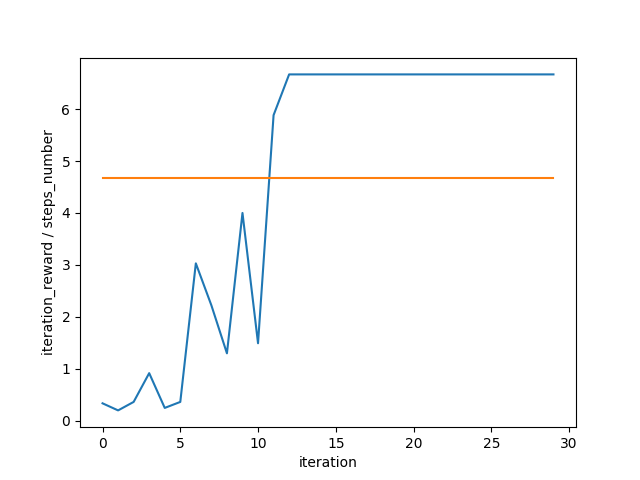
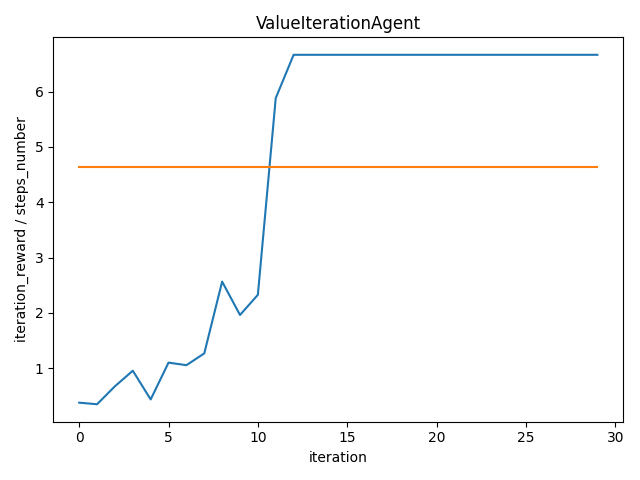
fix: plot saves and print_statistics

diff --git a/src/valueIteration_agent.py b/src/valueIteration_agent.py
@@ -2,6 +2,7 @@ from src.cell import Cell
 from src.map import Map
 from src.robot import Robot
 from src.direction import Directions
+from src.color_printer import ColorPrinter
 from matplotlib import pyplot as plt
 
 import  random
@@ -17,7 +18,7 @@ class ValueIterationAgent:
         self.max_iteration = 30
         self.max_steps_number = 20_000
         self.steps_number = 0
-        self.iteration_number = 0
+        self.iteration_number = 1
         self.episode_reward = 0 
         self.rewards = []
         self.space = range(self.max_iteration)
@@ -68,7 +69,7 @@ class ValueIterationAgent:
         self.run_value_iterations()
     
         self.rewards.append(self.episode_reward / self.steps_number)
-        print(f" iteration {self.iteration_number} episode_reward / steps_number: {self.episode_reward / self.steps_number}")
+        print(f"iteration {self.iteration_number} episode_reward / steps_number: {ColorPrinter.colored(self.episode_reward / self.steps_number)}")
         self.iteration_number += 1
         self.steps_number = 0
         self.episode_reward = 0
@@ -80,31 +81,40 @@ class ValueIterationAgent:
         self.steps_number += 1
         self.episode_reward += reward
 
-        if win or self.steps_number > self.max_steps_number:
-            self.reset_episode()
-        
-        last_iteration = self.iteration_number >= self.max_iteration
+        last_iteration = self.iteration_number > self.max_iteration
         if last_iteration:
             self.calculate_statistics()
-            # self.save_plot()
-            self.save_plot2()
+            self.print_statistics()
+            self.save_plots()
+        
+        if win or self.steps_number > self.max_steps_number:
+            self.reset_episode()
         return last_iteration
 
-    def print_statistics(self) -> None:
-        pass
-
-    def save_plot(self) -> None:
-        figure = plt.figure()
-        ax = figure.add_subplot(111)
-        cax = ax.matshow(self.values, interpolation='nearest', cmap='hot')
-        figure.colorbar(cax)
+    def save_plots(self) -> None:
+        plt.figure(1)
+        plt.title("Values heat map")
+        heat_map = plt.subplot(111)
+        cax = heat_map.matshow(self.values, interpolation='nearest', cmap='hot')
+        plt.colorbar(cax)
         plt.savefig("figure2.png")
+
+        plt.figure(2)
+        plt.title("ValueIterationAgent")
+        plt.xlabel("iteration")
+        plt.ylabel("iteration_reward / steps_number")       
+        plt.plot(self.space, self.rewards)
+        plt.plot(self.space,[self.average for _ in self.space]) 
+        plt.tight_layout()  
+        plt.savefig("figure3.png")
+        
     
     def save_plot2(self) -> None:
         plt.xlabel("iteration")
         plt.ylabel("iteration_reward / steps_number")       
         plt.plot(self.space, self.rewards)
-        plt.plot(self.space,[self.average for _ in self.space])   
+        plt.plot(self.space,[self.average for _ in self.space]) 
+        plt.tight_layout()  
         plt.savefig("figure3.png")
 
     def calculate_statistics(self) -> None:
@@ -112,6 +122,13 @@ class ValueIterationAgent:
         self.average = np.average(self.rewards)
         self.standard_deviation = np.std(self.rewards)
 
+    def print_statistics(self) -> None:
+        ColorPrinter.show(f"{'='*10}ValueIterationAgent:{'='*10}","warning")
+        print(f"max steps number: {ColorPrinter.colored(self.max_steps_number)}")
+        print(f"max iteration: {ColorPrinter.colored(self.max_iteration)}")
+        print(f"average reward / steps_number: {ColorPrinter.colored(round(self.average, 2))}")
+        print(f"standard_deviation reward / steps_number: {ColorPrinter.colored(round(self.standard_deviation,2))}")
+        print(f"time took {ColorPrinter.colored(round(self.time,2))} sec")
 
 
        

diff --git a/src/randomly_agent.py b/src/randomly_agent.py
@@ -1,5 +1,6 @@
 from src.map import Map
 from src.robot import Robot
+from src.color_printer import ColorPrinter
 from matplotlib import pyplot as plt
 
 import time
@@ -12,15 +13,21 @@ class RandomlyAgent:
         self.max_steps_number = 20_000
         self.max_episode_number = 30
         self.steps_number = 0
-        self.episode_number = 0
+        self.episode_number = 1
         self.episode_reward = 0 
         self.rewards = []
         self.space = range(self.max_episode_number)
         self.average = 0
         self.standard_deviation = 0 
         self.start_time = time.time()
-        
 
+    def reset_episode(self) -> None:
+        self.rewards.append(self.episode_reward/self.steps_number)
+        self.episode_number += 1
+        self.steps_number = 0
+        self.episode_reward = 0
+        self.robot.current_cell = self.map.robot_inicial_cell
+        
     def update(self) -> bool:
         is_last_episode = False
         win, reward = self.robot.random_step()
@@ -29,31 +36,25 @@ class RandomlyAgent:
         self.steps_number += 1
         
         if win or self.steps_number > self.max_steps_number:
-            print(f"episode {self.episode_number} total reward {self.episode_reward/self.steps_number}")
+            print(f"episode {self.episode_number} total reward {ColorPrinter.colored(self.episode_reward/self.steps_number)}")
             self.reset_episode()
 
         if self.episode_number > self.max_episode_number:
                 self.calculate_statistics()
-                self.save_plot()
+                self.save_plots()
                 self.print_statistics()
                 is_last_episode = True
 
         return is_last_episode
                 
-    def reset_episode(self) -> None:
-        self.rewards.append(self.episode_reward/self.steps_number)
-        self.episode_number += 1
-        self.steps_number = 0
-        self.episode_reward = 0
-        self.robot.current_cell = self.map.robot_inicial_cell
-
     def calculate_statistics(self) -> None:
-        self.rewards.pop()
         self.time = time.time() - self.start_time
         self.average = np.average(self.rewards)
         self.standard_deviation = np.std(self.rewards)
 
-    def save_plot(self) -> None:
+    def save_plots(self) -> None:
+        plt.figure(1)
+        plt.title(f"RandomlyAgent")
         plt.xlabel("episodes")
         plt.ylabel("episode_reward / steps_number")       
         plt.plot(self.space, self.rewards)
@@ -61,10 +62,9 @@ class RandomlyAgent:
         plt.savefig("figure1.png")
     
     def print_statistics(self) -> None:
-        print("==========RandomSteps==========")
-        print(f"max steps number: {self.max_steps_number}")
-        print(f"max episode number: {self.max_episode_number}")
-        print(f"rewards: {[ round(rewards,2) for rewards in self.rewards]}")
-        print(f"average reward / steps_number: {round(self.average, 2)}")
-        print(f"standard_deviation reward / steps_number: {round(self.standard_deviation,2)}")
-        print(f"time took {round(self.time,2)} sec")
+        ColorPrinter.show(f"{'='*10}RandomlyAgent{'='*10}","warning")
+        print(f"max steps number: {ColorPrinter.colored(self.max_steps_number)}")
+        print(f"max episode number: {ColorPrinter.colored(self.max_episode_number)}")
+        print(f"average reward / steps_number: {ColorPrinter.colored(round(self.average, 2))}")
+        print(f"standard_deviation reward / steps_number: {ColorPrinter.colored(round(self.standard_deviation,2))}")
+        print(f"time took {ColorPrinter.colored(round(self.time,2))} sec")

diff --git a/src/color_printer.py b/src/color_printer.py
@@ -1,0 +1,29 @@
+#NunoLima 29/09/2022
+import colorama
+import sys
+class ColorPrinter:
+    colorama.init(autoreset=True)
+    styles = {
+        "success":colorama.Fore.GREEN + colorama.Style.BRIGHT,
+        "warning":colorama.Fore.YELLOW + colorama.Style.BRIGHT,
+        "error":colorama.Fore.RED + colorama.Style.BRIGHT
+        }
+    @staticmethod
+    def show(text: str, type: str = "success", print_end: str = "\n" , on_error_exit = False) -> None:
+        message = text
+        if type in ColorPrinter.styles:
+            message = f'{ColorPrinter.styles[type]}{text}'
+        print(message,end=print_end)
+        if type == "error" and on_error_exit:
+            sys.exit()
+
+    @staticmethod
+    def colored(text: str, type: str = "success") -> str:
+        message = text
+        if type in ColorPrinter.styles:
+            message = f'{ColorPrinter.styles[type]}{text}{colorama.Fore.RESET}'
+        return message
+
+
+
+

diff --git a/main.py b/main.py
@@ -5,7 +5,7 @@ def main() -> None:
     map_path = "src\maps\level1.map"
     cell_size = 75
     game_types = ["play", "random","value"] 
-    game = Game("RL-Challenge" , map_path, cell_size, type ="random", fps=120 )
+    game = Game("RL-Challenge" , map_path, cell_size, type ="value", fps=120 )
     game.start()
      
 if __name__=="__main__":
